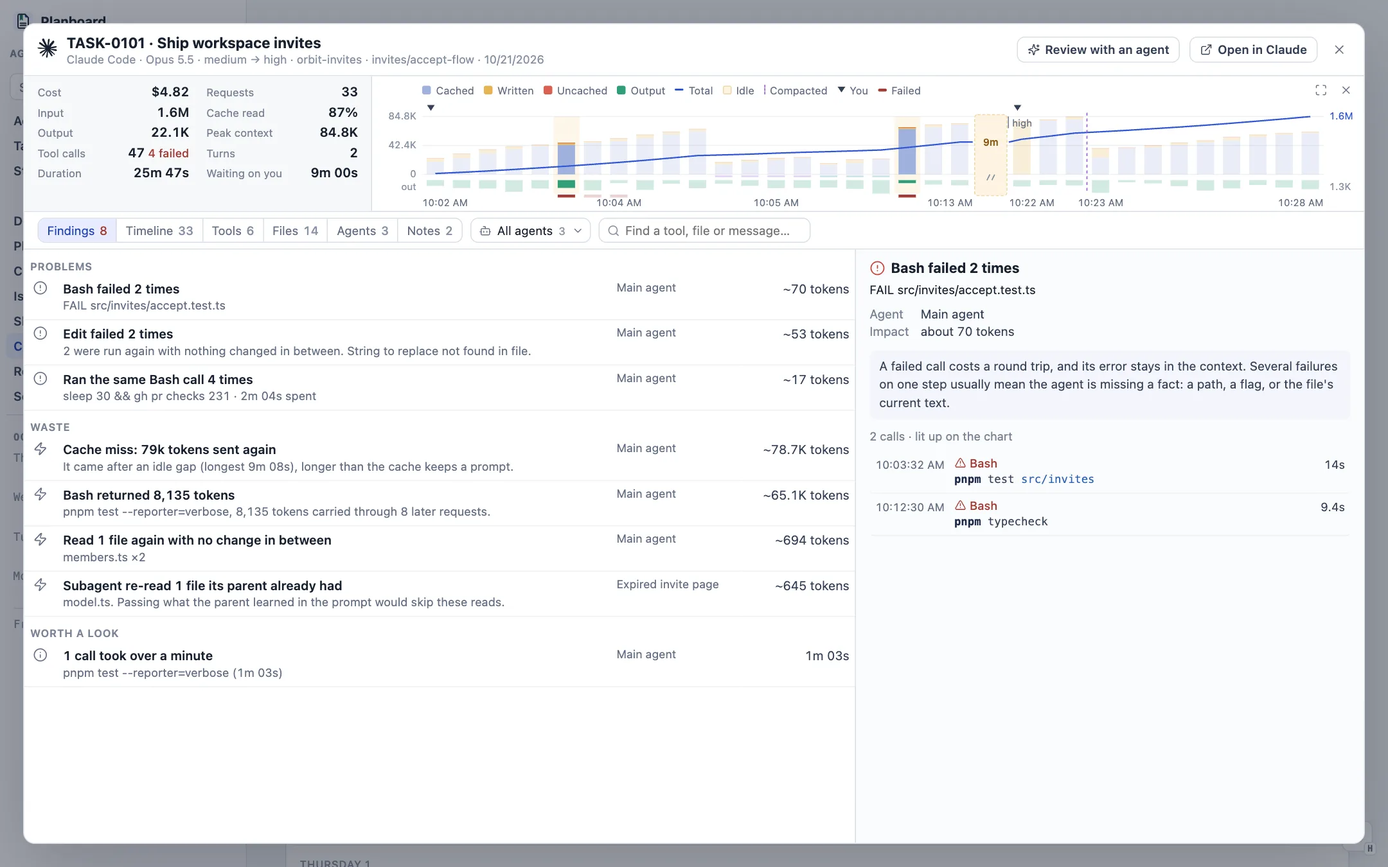
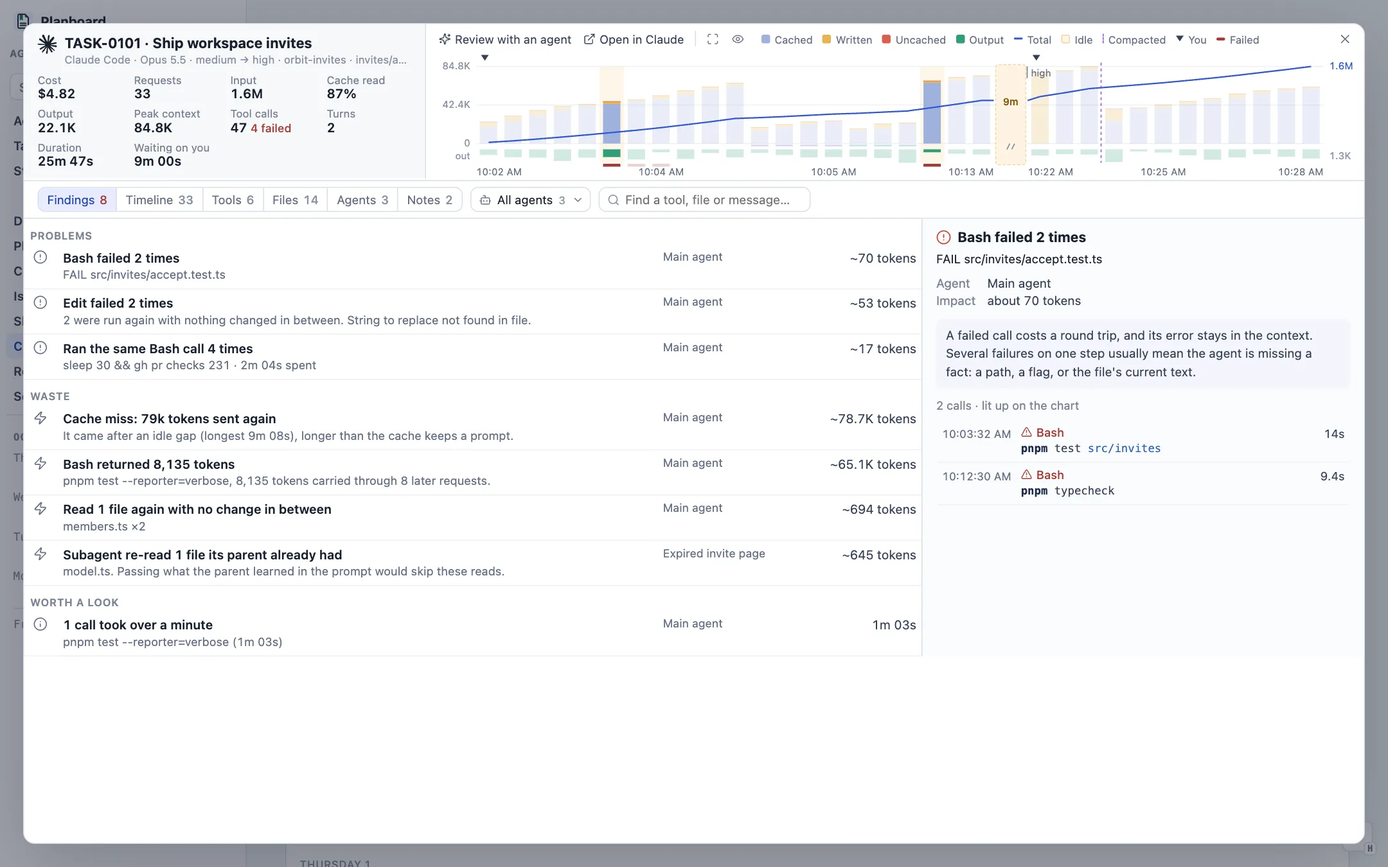
Session overlay: chart at the top, Said and Did columns, highlight in the chart bar
- The chart runs to the top of the overlay; the title, meta and totals (four
  columns) sit on its left. The bar above the chart starts with Review and
  Open, then the chart buttons and key, with close at the right.
- A selected finding shows as "Highlighting <finding>" in the chart bar, in
  place of the toolbar chip that read like a filter.
- Timeline rows split into Said and Did columns, one line where they fit;
  turn rows are one line with the facts on the right; times drop AM/PM.
- Shell hints and colors skip heredoc bodies (test added).

diff --git a/public/session.js b/public/session.js
@@ -32,6 +32,8 @@ export function span(ms) {
   return `${Math.floor(ms / 3_600_000)}h ${String(Math.round(ms % 3_600_000 / 60_000)).padStart(2, "0")}m`;
 }
 const clock = (t) => new Date(t).toLocaleTimeString([], { hour: "numeric", minute: "2-digit", second: "2-digit" });
+// A clock without AM/PM for dense rows; the turn rows above them carry the full time.
+const short = (t) => clock(t).replace(/\s?[AP]M$/i, "");
 const minute = (t) => new Date(t).toLocaleTimeString([], { hour: "numeric", minute: "2-digit" });
 const modelName = (id) => modelInfo(id)?.name || id || "—";
 const home = (text) => String(text ?? "").replace(/\/Users\/[^/\s"]+/g, "~");
@@ -109,6 +111,7 @@ export function openSession(key, { tab = "", agent = "", pick = "" } = {}) {
   ui = { tab: TABS[tab] ? tab : "", agent: agent === "all" ? -1 : Number(agent) || 0, pick: pick || null, find: "", focus: null, menu: false, only: ui.only };
   dialog.dataset.key = key;
   setOverlayParams({ session: key });
+  dialog.querySelector('[data-s="head"]').hidden = false;
   dialog.querySelector('[data-s="head"]').innerHTML = `<div class="session-title"><h3>Loading session…</h3></div><span class="code-spacer"></span>${closeButton()}`;
   dialog.querySelector('[data-s="main"]').innerHTML = `<p class="code-muted session-note">Reading the log…</p>`;
   dialog.dataset.sessionState = "loading";
@@ -129,6 +132,7 @@ export function openSession(key, { tab = "", agent = "", pick = "" } = {}) {
     dialog.dataset.sessionState = "ready";
   }).catch((error) => {
     if (dialog.dataset.key !== key) return;
+    dialog.querySelector('[data-s="head"]').hidden = false;
     dialog.querySelector('[data-s="head"]').innerHTML = `<div class="session-title"><h3>Session not found</h3><p class="code-muted">${escapeHtml(key)}</p></div><span class="code-spacer"></span>${closeButton()}`;
     dialog.querySelector('[data-s="main"]').innerHTML = `<p class="session-note">${escapeHtml(error.message)} Planboard reads Claude Code and Codex logs from this computer's ~/.claude and ~/.codex folders.</p>`;
     dialog.dataset.sessionState = "error";
@@ -218,23 +222,28 @@ function render() {
   const efforts = [...new Set(data.requests.filter((request) => request.agent === 0).map((request) => request.effort).filter(Boolean))];
   const folder = data.cwd.split("/").filter(Boolean).at(-1) || "";
   const facts = [models.map(modelName).join(" → "), efforts.join(" → "), folder, data.branch, data.start && formatDateTime(new Date(data.start))].filter(Boolean);
-  head.innerHTML = `<span class="session-mark">${brandMark(data.provider === "Claude" ? "claude" : "codex", `chat-app-mark is-${data.provider.toLowerCase()}`)}</span>
-    <div class="session-title"><h3>${escapeHtml(data.title)}</h3><p class="code-muted"><span data-tip="${escapeHtml(home(data.path))}">${escapeHtml(data.provider === "Claude" ? "Claude Code" : "Codex")}</span> · ${facts.map((fact, index) => index === 2 ? `<span data-tip="${escapeHtml(home(data.cwd))}">${escapeHtml(fact)}</span>` : escapeHtml(fact)).join(" · ")}</p></div>
-    <span class="code-spacer"></span>
-    <button type="button" class="code-bar-button" data-s-review data-tip="Save a prompt that asks an agent to explain the findings and your notes, and propose lasting fixes">${glyph("sparkles")}Review with an agent</button>
-    <a class="code-bar-button" href="${escapeHtml(data.url)}">${glyph("external-link")}Open in ${data.provider === "Claude" ? "Claude" : "Codex"}</a>${closeButton()}`;
+  // The loading header steps aside: the title and totals sit on the left and the chart runs to the top of the overlay.
+  head.hidden = true;
+  const app = data.provider === "Claude" ? "Claude Code" : "Codex";
+  const meta = `<span data-tip="${escapeHtml(home(data.path))}">${escapeHtml(app)}</span> · ${facts.map((fact, index) => index === 2 ? `<span data-tip="${escapeHtml(home(data.cwd))}">${escapeHtml(fact)}</span>` : escapeHtml(fact)).join(" · ")}`;
+  const title = `<div class="session-id"><span class="session-mark">${brandMark(data.provider === "Claude" ? "claude" : "codex", `chat-app-mark is-${data.provider.toLowerCase()}`)}</span>
+    <div class="session-title"><h3 data-tip="${escapeHtml(data.title)}">${escapeHtml(data.title)}</h3><p class="code-muted">${meta}</p></div></div>`;
+  const actions = `<button type="button" class="session-chart-button is-action" data-s-review data-tip="Save a prompt that asks an agent to explain the findings and your notes, and propose lasting fixes">${glyph("sparkles")}Review with an agent</button>
+    <a class="session-chart-button is-action" href="${escapeHtml(data.url)}">${glyph("external-link")}Open in ${data.provider === "Claude" ? "Claude" : "Codex"}</a>`;
   const agents = data.agents.length > 1 ? `<div class="session-agent" data-s="agent"></div>` : "";
   const legend = `<span class="session-legend" aria-label="Chart key"><span class="is-cached" data-tip="Prompt tokens read from the prompt cache">Cached</span><span class="is-write" data-tip="Prompt tokens written to the prompt cache">Written</span><span class="is-fresh" data-tip="Prompt tokens neither read from nor written to the cache">Uncached</span><span class="is-output">Output</span><span class="is-cumulative" data-tip="Running total of tokens processed">Total</span><span class="is-idle" data-tip="No request for longer than the 5-minute prompt cache">Idle</span><span class="is-compact">Compacted</span><span class="is-msg" data-tip="Your messages">You</span><span class="is-fail" data-tip="A failed tool call">Failed</span></span>`;
   dialog.querySelector('[data-s="main"]').innerHTML = `<div class="session-top" data-s="top" data-chart="${chartMode()}">
-      <div class="session-stats"><span class="session-stat-list" data-s="stats"></span><button type="button" class="session-chart-button is-show" data-s-chart="compact" data-tip="Show the chart">${glyph("chart-gantt")}Chart</button></div>
-      <div class="session-chart-panel"><div class="session-chart-bar">${legend}<span class="code-spacer"></span>
-        <button type="button" class="session-chart-button" data-s-chart="wide" data-tip="Widen the chart" aria-label="Widen the chart">${glyph("maximize")}</button>
-        <button type="button" class="session-chart-button" data-s-chart="compact" data-tip="Put the chart beside the totals" aria-label="Put the chart beside the totals">${glyph("minimize")}</button>
-        <button type="button" class="session-chart-button" data-s-chart="hidden" data-tip="Hide the chart" aria-label="Hide the chart">${glyph("x")}</button></div>
+      <div class="session-stats">${title}<span class="session-stat-list" data-s="stats"></span></div>
+      <div class="session-chart-panel"><div class="session-chart-bar">${actions}<span class="session-bar-rule"></span>
+        <button type="button" class="session-chart-button is-show" data-s-chart="compact" data-tip="Show the chart">${glyph("chart-gantt")}Show chart</button>
+        <button type="button" class="session-chart-button is-size" data-s-chart="wide" data-tip="Widen the chart" aria-label="Widen the chart">${glyph("maximize")}</button>
+        <button type="button" class="session-chart-button is-size" data-s-chart="compact" data-tip="Put the chart beside the totals" aria-label="Put the chart beside the totals">${glyph("minimize")}</button>
+        <button type="button" class="session-chart-button is-size" data-s-chart="hidden" data-tip="Hide the chart" aria-label="Hide the chart">${glyph("eye")}</button>
+        <span class="session-focus" data-s="focus"></span>${legend}<span class="code-spacer"></span>${closeButton()}</div>
       <div class="session-chart" data-s="chart"></div></div></div>
     <div class="session-toolbar"><div class="code-segment" role="tablist" aria-label="View">${Object.entries(TABS).filter(([key]) => key !== "agents" || data.agents.length > 1).map(([key, label]) => `<button type="button" role="tab" data-s-tab="${key}" aria-pressed="${ui.tab === key}">${label}<span class="code-count" data-s-count="${key}"></span></button>`).join("")}</div>
       ${agents}<label class="code-filter">${glyph("search")}<input type="search" data-s-find placeholder="Find a tool, file or message…" aria-label="Find in this session" spellcheck="false"></label>
-      <span class="session-focus" data-s="focus"></span><span class="code-spacer"></span>
+      <span class="code-spacer"></span>
       <button type="button" class="session-only" data-s-only aria-pressed="false" data-tip="Show only your messages, each with the agent's last word" hidden>${glyph("user")}Your messages only</button></div>
     <div class="session-split"><div class="session-list" data-s="list"></div><aside class="session-inspector" data-s="inspector" aria-label="Details"></aside></div>`;
   renderBody();
@@ -270,7 +279,7 @@ function renderBody() {
   }
   if (ui.tab === "findings" && !ui.pick && view.findings[0]) ui.focus = view.findings[0].id;
   const focus = focused();
-  dialog.querySelector('[data-s="focus"]').innerHTML = focus && ui.tab !== "findings" ? `<span>${glyph(SEVERITY_ICON[focus.severity])}${escapeHtml(focus.title)}</span><button type="button" class="code-icon-button" data-s-unfocus aria-label="Stop highlighting this finding">${glyph("x")}</button>` : "";
+  dialog.querySelector('[data-s="focus"]').innerHTML = focus && ui.tab !== "findings" ? `<span data-tip="This finding's requests are lit on the chart and tinted in the timeline">Highlighting <b>${escapeHtml(focus.title)}</b></span><button type="button" class="code-icon-button" data-s-unfocus aria-label="Stop highlighting this finding">${glyph("x")}</button>` : "";
   setOverlayParams({ "session-tab": ui.tab === (found.length ? "findings" : "timeline") ? "" : ui.tab, "session-agent": ui.agent === 0 ? "" : ui.agent < 0 ? "all" : String(ui.agent), "session-pick": ui.pick || "" });
   const list = dialog.querySelector('[data-s="list"]');
   const top = list.scrollTop;
@@ -334,7 +343,7 @@ function drawChart() {
   if (!host || chartMode() === "hidden") return;
   const { requests, messages, marks } = scope();
   const width = Math.max(320, host.clientWidth);
-  const height = chartMode() === "wide" ? 200 : 112;
+  const height = chartMode() === "wide" ? 200 : Math.max(96, (dialog.querySelector(".session-stats")?.offsetHeight || 150) - 28);
   const pad = { left: 44, right: 50, top: 16, bottom: 16 };
   const outH = chartMode() === "wide" ? 26 : 14;
   const inH = height - pad.top - pad.bottom - outH - 6;
@@ -471,7 +480,7 @@ function timelineTable({ requests, tools, messages, marks }) {
   const byRequest = Map.groupBy(tools, (tool) => tool.request);
   const showAgent = ui.agent < 0;
   const hits = new Set(focused()?.requests || []);
-  const width = showAgent ? 8 : 7;
+  const width = showAgent ? 9 : 8;
   const rows = [
     ...messages.map((message, turn) => {
       const index = data.messages.indexOf(message);
@@ -480,7 +489,7 @@ function timelineTable({ requests, tools, messages, marks }) {
       const facts = [plural(stats.requests.length, "request"), plural(stats.calls.length, "call"), stats.failed && `<em>${stats.failed} failed</em>`, span(stats.ms), stats.cost !== null && usd(stats.cost)].filter(Boolean).join(" · ");
       // With only your messages showing, each turn also shows the agent's last word, so the list reads as the conversation.
       const reply = ui.only && stats.requests.findLast((request) => request.text);
-      return { t: message.t, order: 0, html: `<tr class="code-row session-msg-row${ui.pick === `m${index}` ? " is-picked" : ""}" data-s-pick="m${index}" tabindex="0"><td class="session-num">${glyph("user")}</td><td class="session-time">${clock(message.t)}</td><td colspan="${width - 2}"><span class="session-turn"><b>Turn ${turn + 1}</b> · ${facts}</span><span class="session-msg-text">${escapeHtml(message.text)}</span>${reply ? `<span class="session-reply">${glyph("bot")}${escapeHtml(plain(home(reply.text)))}</span>` : ""}</td></tr>` };
+      return { t: message.t, order: 0, html: `<tr class="code-row session-msg-row${ui.pick === `m${index}` ? " is-picked" : ""}" data-s-pick="m${index}" tabindex="0"><td class="session-num">${glyph("user")}</td><td class="session-time">${clock(message.t)}</td><td colspan="${width - 2}"><div class="session-turn-line"><b class="session-turn-label">Turn ${turn + 1}</b><span class="session-msg-text">${escapeHtml(message.text)}</span><span class="session-turn">${facts}</span></div>${reply ? `<span class="session-reply">${glyph("bot")}${escapeHtml(plain(home(reply.text)))}</span>` : ""}</td></tr>` };
     }),
     ...(ui.only ? [] : [
     ...marks.map((mark) => ({ t: mark.t, order: 1, html: `<tr class="session-mark-row is-${mark.kind}"><td class="session-num">${glyph(mark.kind === "compact" ? "layers" : "settings")}</td><td class="session-time">${clock(mark.t)}</td><td colspan="${width - 2}">${mark.kind === "compact" ? `Context compacted${mark.trigger ? ` (${escapeHtml(mark.trigger)})` : ""}${mark.before ? `: ${exact(mark.before)} → ${exact(mark.after || 0)} tokens` : ""}` : `${mark.kind === "model" ? "Model" : "Effort"} changed to <b>${escapeHtml(mark.kind === "model" ? modelName(mark.label) : mark.label)}</b>`}</td></tr>` })),
@@ -505,16 +514,16 @@ function timelineTable({ requests, tools, messages, marks }) {
       const fresh = request.input - request.cached;
       const cache = request.input ? request.cached / request.input : 1;
       return { t: request.t, order: 2, html: `<tr class="code-row session-req${request.text ? " has-text" : ""}${ui.pick === `r${request.index}` ? " is-picked" : ""}${hits.has(request.index) ? " is-hit" : ""}" data-s-pick="r${request.index}" tabindex="0">
-        <td class="session-num">${position + 1}</td><td class="session-time" data-tip="${escapeHtml(`${new Date(request.t).toLocaleString()} · ${modelName(request.model)}${request.effort ? ` · ${request.effort}` : ""}`)}">${clock(request.t)}</td>
+        <td class="session-num">${position + 1}</td><td class="session-time" data-tip="${escapeHtml(`${new Date(request.t).toLocaleString()} · ${modelName(request.model)}${request.effort ? ` · ${request.effort}` : ""}`)}">${short(request.t)}</td>
         ${showAgent ? `<td class="session-agent-cell" style="--a:${agentColor(request.agent)}">${agentDot(request.agent)}${escapeHtml(request.agent ? data.agents[request.agent].label : "Main")}</td>` : ""}
-        <td class="session-step">${request.text ? `<span class="session-said">${escapeHtml(request.text.replace(/\s+/g, " "))}</span>` : ""}<span class="session-tools">${names}${pinned}</span></td>
+        <td class="session-step">${request.text ? `<span class="session-said">${escapeHtml(plain(request.text))}</span>` : ""}</td><td class="session-did"><span class="session-tools">${names}${pinned}</span></td>
         <td class="session-n is-context">${num(request.input)}</td>
         <td class="session-n${cache < 0.5 ? " is-warn" : " is-soft"}">${pct(request.cached, request.input)}</td>
         <td class="session-n${fresh >= 20_000 ? " is-heavy" : " is-soft"}" data-tip="${exact(fresh)} tokens not read from cache">${num(fresh)}</td>
         <td class="session-n is-soft">${num(request.output)}</td></tr>` };
     })]),
   ].sort((a, b) => a.t - b.t || a.order - b.order).map((row) => row.html).join("");
-  return `<table class="code-table session-table session-timeline"><thead><tr><th class="session-num">#</th><th>Time</th>${showAgent ? '<th class="session-agent-head">Agent</th>' : ""}<th>What the agent said and did</th><th class="session-n" data-tip="Prompt tokens: the context this request read">Context</th><th class="session-n" data-tip="Share of the prompt read from cache">Cache</th><th class="session-n" data-tip="Prompt tokens not read from cache">New</th><th class="session-n">Output</th></tr></thead><tbody>${rows || `<tr><td colspan="${width}" class="session-note">Nothing matches.</td></tr>`}</tbody></table>`;
+  return `<table class="code-table session-table session-timeline"><thead><tr><th class="session-num">#</th><th>Time</th>${showAgent ? '<th class="session-agent-head">Agent</th>' : ""}<th>Said</th><th class="session-did-head">Did</th><th class="session-n" data-tip="Prompt tokens: the context this request read">Context</th><th class="session-n" data-tip="Share of the prompt read from cache">Cache</th><th class="session-n" data-tip="Prompt tokens not read from cache">New</th><th class="session-n">Output</th></tr></thead><tbody>${rows || `<tr><td colspan="${width}" class="session-note">Nothing matches.</td></tr>`}</tbody></table>`;
 }
 
 function toolStats(tools) {

diff --git a/public/styles.css b/public/styles.css
@@ -3869,27 +3869,36 @@ div.step-row { cursor: pointer; }
 .session-head .code-bar-button { text-decoration: none; }
 .session-head .code-bar-button .code-icon { width: 13px; height: 13px; }
 .session-main { display: grid; grid-template-columns: minmax(0, 1fr); grid-template-rows: auto auto minmax(0, 1fr); min-width: 0; min-height: 0; }
+.session-head[hidden] { display: none; }
 .session-top { display: grid; grid-template-columns: minmax(0, 1fr); border-bottom: 1px solid var(--line); }
-.session-top[data-chart="compact"] { grid-template-columns: minmax(310px, 26%) minmax(0, 1fr); }
-.session-top[data-chart="hidden"] .session-chart-panel { display: none; }
+.session-top[data-chart="compact"] { grid-template-columns: minmax(360px, 30%) minmax(0, 1fr); }
+.session-top[data-chart="hidden"] { grid-template-columns: minmax(0, 1fr) auto; align-items: center; }
+.session-top[data-chart="hidden"] .session-chart, .session-top[data-chart="hidden"] .session-legend { display: none; }
 .session-top:not([data-chart="hidden"]) .session-chart-button.is-show { display: none; }
+.session-top[data-chart="hidden"] .session-chart-button.is-size { display: none; }
 .session-top[data-chart="wide"] [data-s-chart="wide"], .session-top[data-chart="compact"] [data-s-chart="compact"] { display: none; }
 .session-chart-panel { min-width: 0; }
-.session-chart-bar { display: flex; align-items: center; gap: 2px; min-height: 24px; padding: 2px 6px 0 52px; }
-.session-chart-button { display: inline-grid; grid-auto-flow: column; align-items: center; gap: 4px; height: 24px; min-width: 24px; border: 0; border-radius: 6px; background: none; padding: 0 5px; color: var(--muted); font-size: .72rem; transition: background-color 140ms, color 140ms; }
+.session-chart-bar { display: flex; align-items: center; gap: 2px; min-height: 28px; padding: 2px 8px 0; }
+.session-chart-bar .session-legend { margin-left: 10px; }
+.session-chart-bar .code-icon-button { flex: none; }
+.session-bar-rule { width: 1px; height: 16px; margin: 0 4px; background: var(--line); }
+.session-chart-button { display: inline-grid; flex: none; grid-auto-flow: column; align-items: center; gap: 4px; height: 24px; min-width: 24px; border: 0; border-radius: 6px; background: none; padding: 0 5px; color: var(--muted); font-size: .72rem; text-decoration: none; white-space: nowrap; transition: background-color 140ms, color 140ms; }
+.session-chart-button.is-action { color: var(--body-ink); font-size: .76rem; }
 .session-chart-button .code-icon { width: 13px; height: 13px; }
 @media (hover: hover) { .session-chart-button:hover { background: var(--quiet-field); color: var(--action-ink); } }
 .session-chart-button:active { transform: scale(.97); }
 .session-chart-button:focus-visible { outline: 2px solid var(--action); outline-offset: 1px; }
-.session-main > [hidden] { display: none; }
-.session-note { margin: 14px; color: var(--muted); font-size: .82rem; }
-.session-stats { display: flex; align-items: center; gap: 8px; padding: 3px 8px 3px 14px; background: var(--hover-field); }
-.session-top:not([data-chart="compact"]) .session-stats { border-bottom: 1px solid var(--line); }
-.session-top[data-chart="hidden"] .session-stats { border-bottom: 0; }
-.session-top[data-chart="compact"] .session-stats { align-items: start; padding: 8px 14px; border-right: 1px solid var(--line); }
-.session-top[data-chart="compact"] .session-stat-list { display: grid; grid-template-columns: repeat(2, minmax(0, 1fr)); gap: 5px 18px; width: 100%; margin: 0; }
-.session-top[data-chart="compact"] .session-stat { justify-content: space-between; min-width: 0; }
+.session-stats { display: flex; align-items: center; gap: 6px 18px; min-width: 0; padding: 6px 14px; background: var(--hover-field); }
+.session-top[data-chart="wide"] .session-stats { border-bottom: 1px solid var(--line); }
+.session-top[data-chart="compact"] .session-stats { display: grid; align-content: start; align-self: start; gap: 8px; padding: 10px 14px; border-right: 1px solid var(--line); }
+.session-top[data-chart="compact"] .session-stat-list { display: grid; grid-template-columns: repeat(4, minmax(0, 1fr)); gap: 6px 12px; width: 100%; margin: 0; }
+.session-top[data-chart="compact"] .session-stat { display: grid; gap: 0; min-width: 0; }
 .session-top[data-chart="compact"] .session-stat small { overflow: hidden; text-overflow: ellipsis; }
+.session-id { display: flex; align-items: flex-start; gap: 8px; min-width: 0; }
+.session-top:not([data-chart="compact"]) .session-id { flex: 0 1 420px; }
+.session-id .session-mark { flex: none; padding-top: 1px; }
+.session-id h3 { margin: 0; color: var(--ink); font-size: .92rem; line-height: 1.3; }
+.session-id p { margin: 1px 0 0; overflow: hidden; font-size: .7rem; text-overflow: ellipsis; white-space: nowrap; }
 .session-stat-list { display: flex; flex-wrap: wrap; align-items: baseline; gap: 2px 14px; min-width: 0; margin-right: auto; }
 .session-stat { display: inline-flex; align-items: baseline; gap: 5px; font-variant-numeric: tabular-nums; white-space: nowrap; }
 .session-stat small { color: var(--label-text); font-size: .7rem; }
@@ -3936,7 +3945,6 @@ div.step-row { cursor: pointer; }
 .session-legend .is-msg::before { width: 0; height: 0; border: 4px solid transparent; border-top: 6px solid var(--body-ink); border-bottom: 0; border-radius: 0; background: none; }
 .session-toolbar { display: flex; align-items: center; gap: 8px; min-width: 0; padding: 6px 14px; border-bottom: 1px solid var(--line); }
 .session-toolbar > * { flex: none; }
-.session-toolbar .session-focus { flex: 0 1 auto; min-width: 140px; }
 .session-toolbar .code-filter { min-width: 130px; }
 .session-toolbar .code-filter { height: 26px; flex: 0 1 220px; }
 .session-toolbar .code-filter input { width: 100%; min-width: 0; border: 0; outline: 0; background: none; font-size: .8rem; }
@@ -3968,7 +3976,7 @@ div.step-row { cursor: pointer; }
 .session-agent-option[aria-selected="true"] { background: var(--selected); }
 @media (hover: hover) { .session-agent-option:hover { background: var(--hover-field); } .session-agent-option[aria-selected="true"]:hover { background: var(--selected); } }
 .session-agent-option:focus-visible { outline: 2px solid var(--action); outline-offset: -2px; }
-.session-split { display: grid; grid-template-columns: minmax(0, 1fr) minmax(340px, 38%); min-height: 0; }
+.session-split { display: grid; grid-template-columns: minmax(0, 1fr) minmax(340px, 33%); min-height: 0; }
 .session-list { overflow: auto; overscroll-behavior: contain; min-height: 0; container-type: inline-size; }
 @container (max-width: 680px) { .session-timeline .session-agent-cell { max-width: 22px; font-size: 0; } .session-timeline th.session-agent-head { font-size: 0; } .session-timeline td.session-time { font-size: .7rem; } }
 .session-inspector { min-width: 0; overflow: auto; overscroll-behavior: contain; min-height: 0; padding: 10px 14px 16px; border-left: 1px solid var(--line); background: #fbfcfd; font-size: .8rem; }
@@ -4052,6 +4060,7 @@ pre.session-shell { margin: 0 0 6px; max-height: 300px; overflow: auto; padding:
 .sh-path { color: #2c5fb3; }
 .sh-op { color: #c0392b; font-weight: 600; }
 .sh-comment { color: var(--quiet-text); font-style: italic; }
+.sh-heredoc { color: #4a5568; }
 .session-calls td .code-icon { width: 12px; height: 12px; color: var(--danger); }
 div.session-calls { display: grid; }
 .session-call-row { display: grid; grid-template-columns: auto minmax(0, 1fr) auto; align-items: baseline; gap: 0 10px; min-width: 0; padding: 5px 6px; border-bottom: 1px solid #edf0f4; border-radius: 4px; font-size: .76rem; transition: background-color 120ms; }
@@ -4091,11 +4100,14 @@ div.session-calls { display: grid; }
 .session-chart svg.is-focused .session-bar:not(.is-hit) rect:not(.session-hit) { opacity: .22; }
 .session-bar.is-hit .session-hit { fill: #f2b6461f; }
 .session-toolbar .code-segment .code-count.is-alert { color: var(--danger); }
-.session-focus { display: inline-flex; align-items: center; gap: 4px; min-width: 0; color: var(--body-ink); font-size: .76rem; }
+.session-focus { display: inline-flex; flex: 0 1 auto; align-items: center; gap: 2px; min-width: 0; height: 24px; margin-left: 6px; border-radius: 6px; background: var(--s-hit); padding: 0 2px 0 8px; color: var(--body-ink); font-size: .72rem; }
+.session-focus b { font-weight: 600; }
+.session-focus:not(:empty) ~ .session-legend { display: none; }
 .session-focus:empty { display: none; }
 .session-focus > span { display: block; min-width: 0; overflow: hidden; text-overflow: ellipsis; white-space: nowrap; }
 .session-focus > span > .code-icon { margin-right: 5px; vertical-align: -2px; }
-.session-focus .code-icon { width: 13px; height: 13px; flex: none; color: var(--s-waste); }
+.session-focus .code-icon-button { width: 22px; height: 22px; }
+.session-focus .code-icon { width: 12px; height: 12px; }
 .session-table tr.is-hit td { background: var(--s-hit); }
 .session-table tr.is-hit.is-picked td { background: var(--selected); }
 .session-group th { position: static; padding: 10px 6px 3px; border: 0; background: none; color: var(--label-text); font-size: .68rem; font-weight: 600; letter-spacing: .04em; text-align: left; text-transform: uppercase; }
@@ -4159,8 +4171,10 @@ div.session-calls { display: grid; }
 .session-finding-link:focus-visible { outline: 2px solid var(--action); outline-offset: 1px; }
 @media (max-width: 900px) {
   .session-top[data-chart="compact"] { grid-template-columns: minmax(0, 1fr); }
-  .session-top[data-chart="compact"] .session-stats { border-right: 0; border-bottom: 1px solid var(--line); padding: 3px 14px; }
-  .session-top[data-chart="compact"] .session-stat-list { display: flex; flex-wrap: wrap; gap: 2px 14px; }
+  .session-top[data-chart="compact"] .session-stats { border-right: 0; border-bottom: 1px solid var(--line); }
+  .session-top[data-chart="compact"] .session-stat-list { grid-template-columns: repeat(5, minmax(0, 1fr)); }
+  .session-top .session-stats { flex-wrap: wrap; }
+  .session-chart-bar { flex-wrap: wrap; }
   .session-toolbar { flex-wrap: wrap; }
   .session-split { grid-template-columns: minmax(0, 1fr); grid-template-rows: minmax(0, 1fr) minmax(0, 45%); }
   .session-inspector { border-left: 0; border-top: 1px solid var(--line); }
@@ -4184,3 +4198,24 @@ div.session-calls { display: grid; }
 .session-only:focus-visible { outline: 2px solid var(--action); outline-offset: 1px; }
 .session-reply { display: -webkit-box; -webkit-box-orient: vertical; -webkit-line-clamp: 2; overflow: hidden; margin-top: 4px; color: var(--body-ink); font-size: .8rem; line-height: 1.42; text-wrap: pretty; }
 .session-reply .code-icon { width: 13px; height: 13px; margin-right: 5px; vertical-align: -2px; color: var(--muted); }
+
+/* Timeline: one line per request where it fits, Said and Did side by side. */
+.session-timeline td { padding: 3px 6px; line-height: 1.35; }
+.session-timeline td.session-num { padding-right: 2px; }
+.session-timeline .session-step { width: 55%; max-width: 0; }
+.session-timeline .session-did { width: 45%; max-width: 0; }
+.session-timeline .session-said { font-size: .8rem; -webkit-line-clamp: 2; }
+.session-timeline .session-did .session-tools { max-height: 2.8em; margin: 0; }
+.session-timeline .session-did .session-chip code { max-width: 26ch; }
+.session-timeline tr.session-req:not(.has-text) .session-step { padding: 0; }
+.session-timeline td.session-n { width: 1%; font-size: .74rem; }
+.session-timeline td.session-time { font-size: .72rem; }
+.session-turn-line { display: grid; grid-template-columns: auto minmax(0, 1fr) auto; align-items: baseline; gap: 10px; }
+.session-turn-label { color: var(--action-ink, #3157d5); font-size: .72rem; font-weight: 600; white-space: nowrap; }
+.session-turn-line .session-msg-text { margin: 0; font-size: .84rem; -webkit-line-clamp: 2; }
+.session-turn-line .session-turn { white-space: nowrap; }
+.session-msg-row td { padding-block: 6px; }
+.session-gap-row td, .session-mark-row td { padding-block: 2px; font-size: .72rem; }
+.session-timeline .session-agent-cell { max-width: 120px; font-size: .72rem; }
+.session-timeline td.session-n { padding-inline: 4px; }
+.session-timeline thead th { padding-inline: 4px; }

diff --git a/public/shell.js b/public/shell.js
@@ -91,10 +91,14 @@ export function shellLines(text) {
 }
 
 // The programs a command runs, in order and once each, leaving out `cd` and shell keywords: "git head tail".
+// A heredoc's body is data, not commands: `cat <<'EOF'` keeps its first line and drops the body through the delimiter.
+const HEREDOC = /(<<-?\s*(['"]?)([\w.-]+)\2)([^\n]*)\n[\s\S]*?\n[ \t]*\3[ \t]*(?=\n|$)/g;
+export const withoutHeredocs = (text) => String(text ?? "").replace(HEREDOC, "$1$4");
+
 export function commandNames(text) {
   const names = [];
   let start = true;
-  for (const token of lex(String(text ?? ""))) {
+  for (const token of lex(withoutHeredocs(text))) {
     if (token.kind === "space") continue;
     if (token.kind === "op" || token.kind === "newline") { start = RESETS.has(token.text) || start; continue; }
     if (start && token.kind === "word") {
@@ -108,7 +112,27 @@ export function commandNames(text) {
 
 // Colored HTML for a command, one `<span class="sh-line">` per line.
 export function shellHtml(text) {
-  const tokens = lex(String(text ?? ""));
+  // Heredoc bodies stay plain text; everything else is colored line by line.
+  const out = [];
+  let shell = [];
+  let delimiter = "";
+  const flush = () => { if (shell.length) out.push(colorLines(shell.join("\n"))); shell = []; };
+  for (const line of String(text ?? "").split("\n")) {
+    if (delimiter) {
+      out.push(`<span class="sh-line sh-heredoc">${escapeHtml(line) || " "}</span>`);
+      if (line.trim() === delimiter) delimiter = "";
+      continue;
+    }
+    shell.push(line);
+    const open = /<<-?\s*(['"]?)([\w.-]+)\1/.exec(line);
+    if (open) { flush(); delimiter = open[2]; }
+  }
+  flush();
+  return out.join("");
+}
+
+function colorLines(text) {
+  const tokens = lex(text);
   const lines = [[]];
   for (const token of tokens) token.kind === "newline" ? lines.push([]) : lines.at(-1).push(token);
   return lines.map((line) => {

diff --git a/shell.test.js b/shell.test.js
@@ -18,3 +18,7 @@ test("never breaks inside quotes, $( ) or a subshell", () => {
 test("names the programs a command runs, without cd or keywords", () => {
   assert.deepEqual(commandNames(`cd x; for t in a b; do wc -l $t | head; done; if [ -f y ]; then /usr/bin/git log; fi`), ["wc", "head", "git"]);
 });
+
+test("a heredoc's body is not read as commands", () => {
+  assert.deepEqual(commandNames("python3 - <<'EOF'\nimport re\np = open('x').read()\nEOF\nnode check.js"), ["python3", "node"]);
+});

diff --git a/docs/guide.md b/docs/guide.md
@@ -54,9 +54,9 @@ The list shows every live thread and the 50 most recent finished top-level threa
 
 The session overlay reads one Codex or Claude Code session's log in full, so you can see what the agents did, where the tokens and time went, and what went wrong. Open it from a thread's **Tokens** number on Chat Threads, or from the chart button beside a Codex or Claude Code chat link in a document (a task's `## Chats` list, for example). The URL keeps it open: `?session=claude:<session id>` or `?session=codex:<thread id>`, with `session-tab`, `session-agent` and `session-pick` for the tab, agent and selected row.
 
-- **Header.** The session's title, the models and effort levels it used in order (`Opus 5.5 · medium → high`), its folder, branch and start time, **Review with an agent**, and **Open in Claude** or **Open in Codex**.
-- **Totals.** Beside the chart, in two columns: cost, requests, input, the share read from the prompt cache, output, the largest single prompt, tool calls with failures, turns (messages you typed), duration, and **Waiting on you**: the time between the agent's last step and your next message. Cost is Claude Code's own total when the transcript has one; otherwise it is an estimate from public API prices, marked **est.**, and a dash when the model has no known price. Hover a number for the exact count. The buttons at the chart's top right widen it to the full width and a taller plot (the totals go on one line above it), put it back beside the totals, or hide it (then **Chart** at the end of the totals line shows it again). The choice is kept in this browser.
-- **Chart.** One bar per model request, in order: the prompt stacked as cache read, cache write and uncached input, with output below the axis on its own scale. A blue line traces the running total of tokens. A dashed purple rule marks each compaction, a triangle on top marks each message you typed, a short label marks a model or effort change, and a red tick under a bar marks a failed call. A dotted line shows Codex's context window when the prompts come near it. When no request ran for longer than the 5-minute prompt cache, the bars break with a hatched gap that names its length (`9m`, `4h12m`): amber when the next request had to write the context again, gray when the cache held. Clock labels sit at both ends of the chart and on both sides of every break, so a jump in time reads as one. Every bar in **All agents** carries its agent's color at its foot. The key sits above the plot. Hover a bar for its numbers and what the agent said; click it to select that request in the timeline. While a finding is selected, its requests stay lit and the rest dim.
+- **Header.** The chart runs to the top of the overlay. On its left sit the session's title, the models and effort levels it used in order (`Opus 5.5 · medium → high`), its folder, branch and start time, and the totals. The bar above the chart starts with **Review with an agent** and **Open in Claude** or **Open in Codex**, then the chart buttons, then the key, with × at the far right.
+- **Totals.** Under the title, in four columns: cost, requests, input, the share read from the prompt cache, output, the largest single prompt, tool calls with failures, turns (messages you typed), duration, and **Waiting on you**: the time between the agent's last step and your next message. Cost is Claude Code's own total when the transcript has one; otherwise it is an estimate from public API prices, marked **est.**, and a dash when the model has no known price. Hover a number for the exact count. The chart buttons widen it to the full width and a taller plot (the totals go on one line above it), put it back beside the totals, or hide it (then **Show chart** in the bar shows it again). The choice is kept in this browser.
+- **Chart.** One bar per model request, in order: the prompt stacked as cache read, cache write and uncached input, with output below the axis on its own scale. A blue line traces the running total of tokens. A dashed purple rule marks each compaction, a triangle on top marks each message you typed, a short label marks a model or effort change, and a red tick under a bar marks a failed call. A dotted line shows Codex's context window when the prompts come near it. When no request ran for longer than the 5-minute prompt cache, the bars break with a hatched gap that names its length (`9m`, `4h12m`): amber when the next request had to write the context again, gray when the cache held. Clock labels sit at both ends of the chart and on both sides of every break, so a jump in time reads as one. Every bar in **All agents** carries its agent's color at its foot. The key sits above the plot. Hover a bar for its numbers and what the agent said; click it to select that request in the timeline. While a finding is selected, its requests stay lit and the rest dim, and the bar says **Highlighting** with the finding's name (in place of the key) and × to clear it.
 - **Findings.** The tab the overlay opens on when it finds something, grouped as Problems, Waste and Worth a look, each with a token estimate (characters ÷ 4, counted again for every later request that carried them):
   - a tool that failed, and whether it was run again with nothing changed in between;
   - the same call three or more times in a row with no edit between them (polling, or a loop);
@@ -65,8 +65,8 @@ The session overlay reads one Codex or Claude Code session's log in full, so you
   - cache misses, where a request sent most of its prompt again (usually after an idle gap longer than the cache keeps a prompt);
   - calls that took over a minute, and a context near its window.
 
-  A finding's detail shows two lines in the list and four in the inspector, with **More** when it runs longer; calls are named by their command (without a leading `cd`), file, pattern or title, never raw arguments, and slow calls list the slowest first. Select a finding to see what it means and what usually does better, with its calls (in the same two-line form as on the Tools tab); click a call to see it in the timeline, where the finding's rows stay tinted until you clear it with × in the toolbar.
-- **Timeline.** Your messages head each turn in larger type on a blue tint, with the turn's requests, calls, failures, time and cost above. Below each, requests in time order with what the agent said before acting, then the tools it called, each with an icon for its kind (read, edit, shell, search, subagent, web, MCP), a count for repeats, and what it touched in monospace: the programs a shell call ran (`git head tail`, leaving out `cd`), a file's name, or a search pattern. A red alert marks a failure and a pen a call you noted. The numbers are the prompt size, the share read from cache, new input and output; the cache share turns amber and bold under 50%, and new input over 20k is bold. Compactions, model or effort changes, and idle gaps longer than the prompt cache (striped, amber when the cache expired) sit between them. In **All agents**, each row names its agent with that agent's color. **Your messages only**, at the right of the toolbar on this tab, keeps just your messages, each with the agent's last word for that turn, so the list reads as the conversation; the inspector shows the selected turn.
+  A finding's detail shows two lines in the list and four in the inspector, with **More** when it runs longer; calls are named by their command (without a leading `cd`), file, pattern or title, never raw arguments, and slow calls list the slowest first. Select a finding to see what it means and what usually does better, with its calls (in the same two-line form as on the Tools tab); click a call to see it in the timeline, where the finding's rows stay tinted until you clear it with × beside **Highlighting** in the chart bar.
+- **Timeline.** Your messages head each turn on a blue tint: the turn number, your message (two lines), and the turn's requests, calls, failures, time and cost on the right. Below each, requests in time order, one line where they fit: **Said** is what the agent said before acting (two lines at most, Markdown marks removed), and **Did** lists the tools it called, each with an icon for its kind (read, edit, shell, search, subagent, web, MCP), a count for repeats, and what it touched in monospace: the programs a shell call ran (`git head tail`, leaving out `cd` and the text of a heredoc), a file's name, or a search pattern. A red alert marks a failure and a pen a call you noted. The numbers are the prompt size, the share read from cache, new input and output; the cache share turns amber and bold under 50%, and new input over 20k is bold. Compactions, model or effort changes, and idle gaps longer than the prompt cache (striped, amber when the cache expired) sit between them. In **All agents**, each row names its agent with that agent's color. **Your messages only**, at the right of the toolbar on this tab, keeps just your messages, each with the agent's last word for that turn, so the list reads as the conversation; the inspector shows the selected turn.
 - **Tools.** One row per tool: calls, failures, total, median and longest time from call to result, and the tokens its results returned, with a bar for comparison. Select a tool to list every call. Each call is two lines: the time, tool and duration, then what it ran, cut to two lines with **More** to read the rest. A shell call's leading `cd` shows as "in <folder>" beside the tool, and its command is formatted and colored as in the inspector.
 - **Files.** Every file a tool read, edited or wrote, with counts per action, how many agents touched it, and when it was last touched. A file read more than once without a change is marked.
 - **Agents.** The main agent and each subagent with its model, a strip of its activity on the session's clock (one tick per request), requests, cost, tool calls, findings and duration. Click one to scope the whole overlay to it. The agent button in the toolbar does the same: it names the agent in scope (and how many subagents there are), and its menu lists the main agent, then each subagent with its description, kind and model, requests, calls, failures, duration and cost, and a bar of when it ran on the session's clock. Up and Down move through the menu, Enter picks, and Esc closes only the menu. **All agents** mixes them in time order (subagent bars show lighter). A spawning call in the inspector has **Open subagent**.
